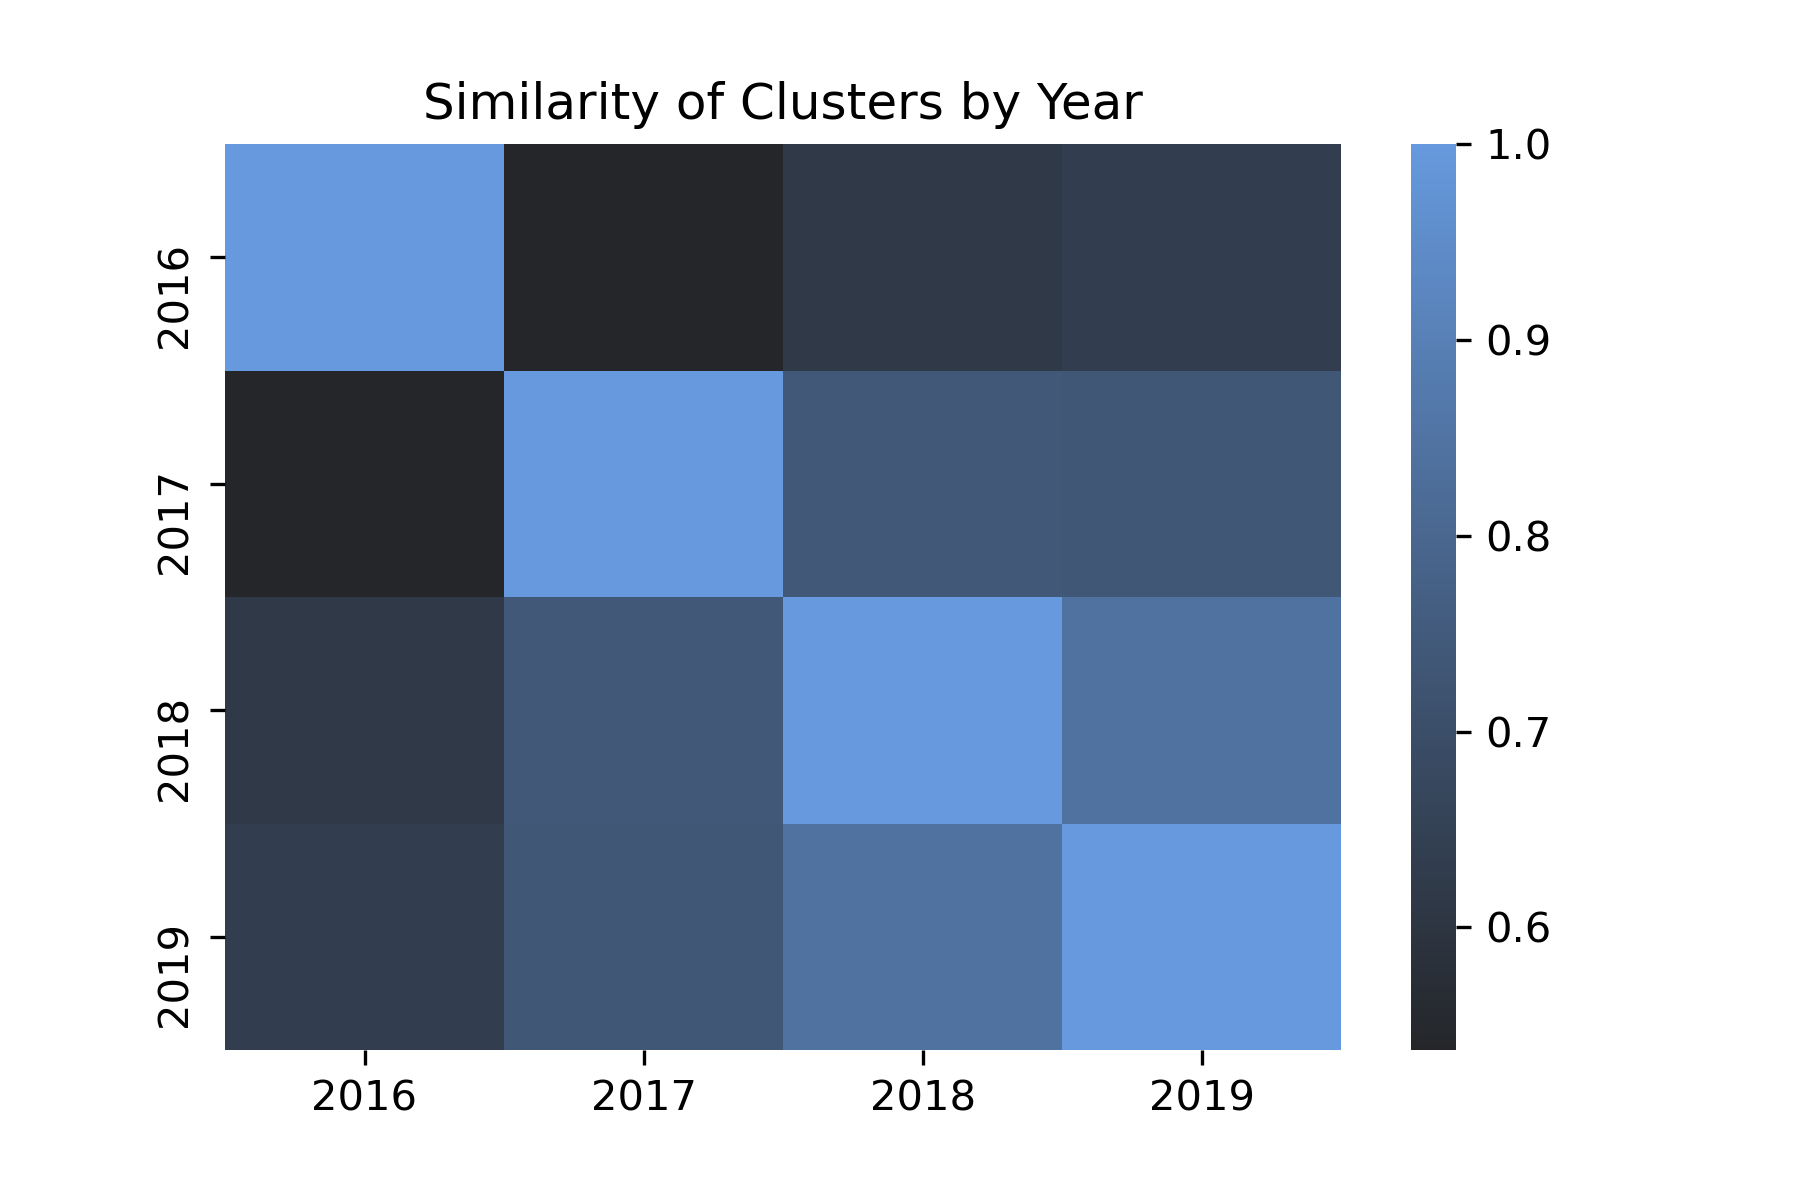
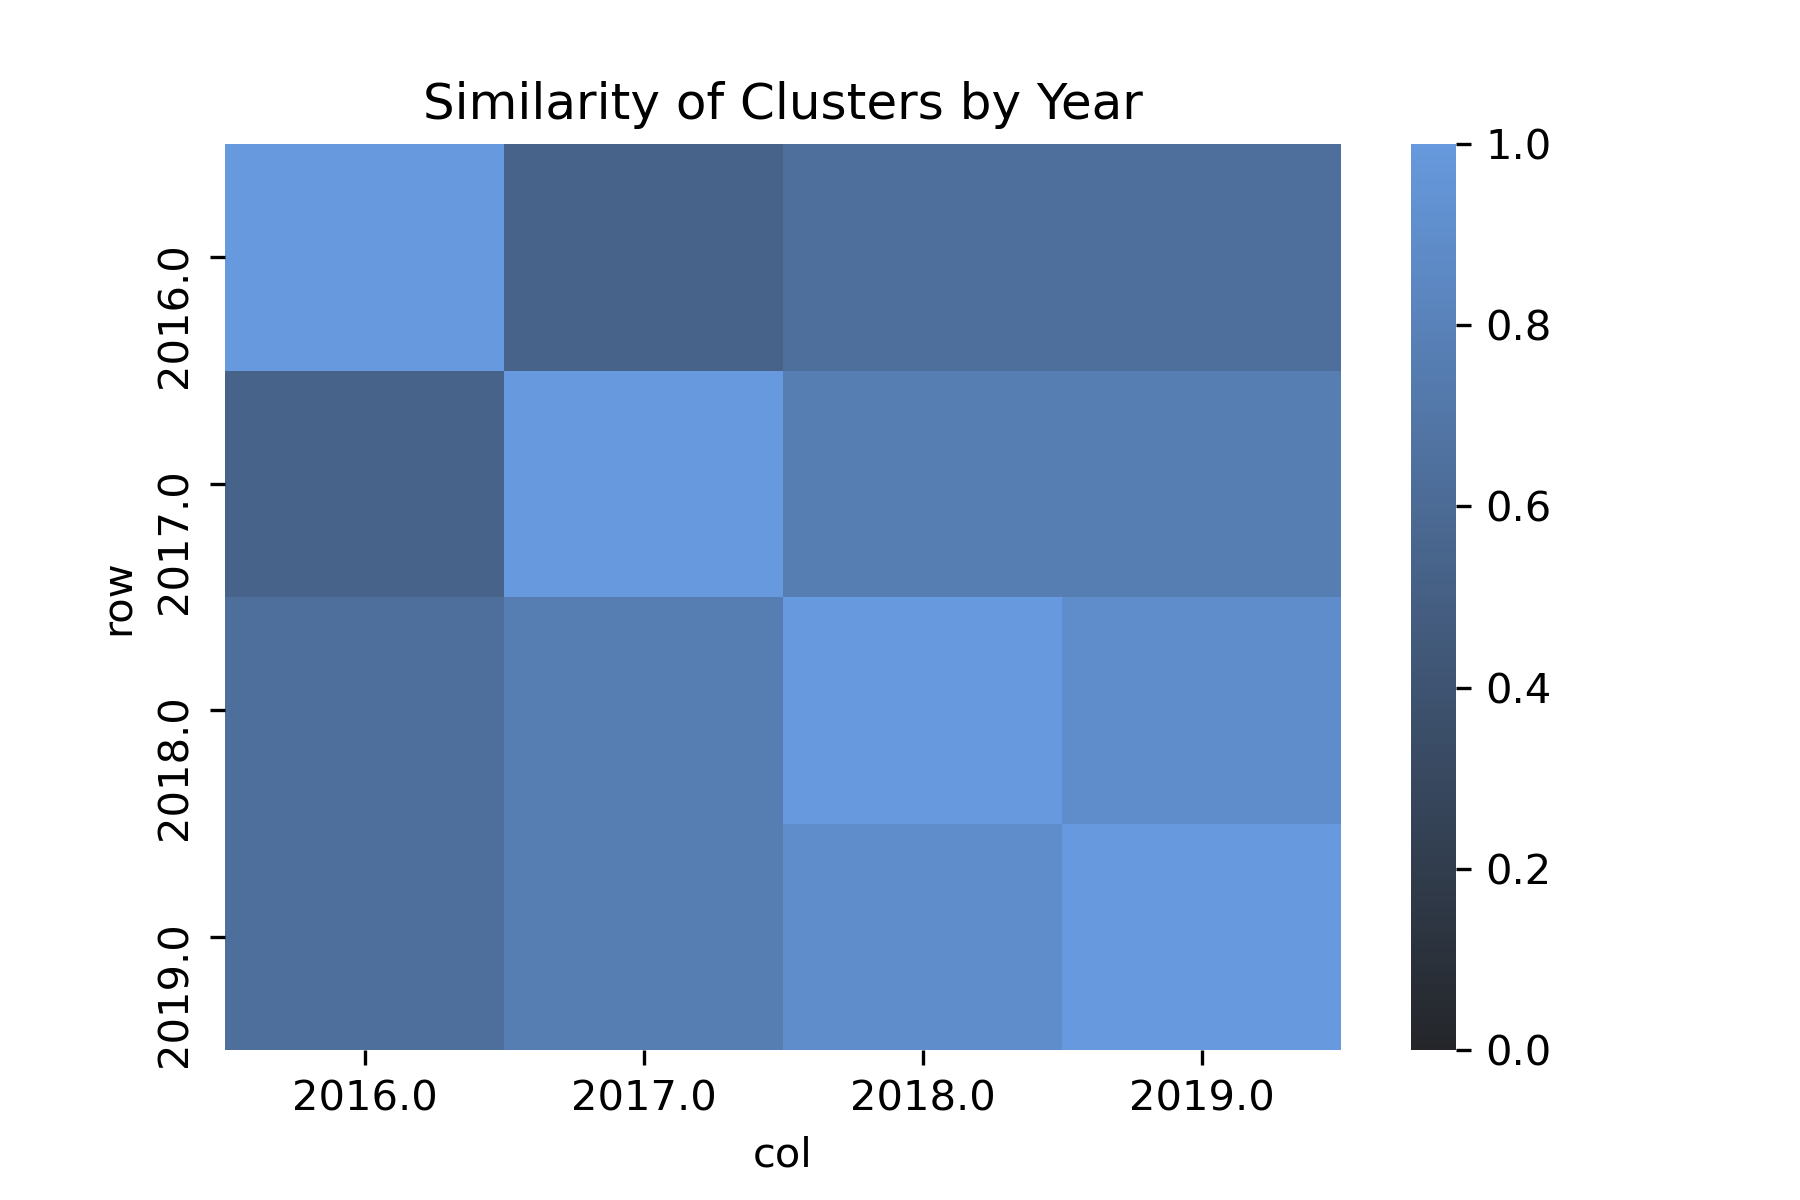
fix similarity matrix code

diff --git a/clustering/util_comparisons.py b/clustering/util_comparisons.py
@@ -2,21 +2,26 @@ import pandas as pd
 import numpy as np
 from util_clustering import get_clusters
 
-def create_training_data_race(data, remove_cols, race):
+def create_training_data_race(data, keep_cols, demog):
     '''
     Subset training data to include 9 features: ISR, UOF, Complaints for each of 3 races
     '''
     # Create training data
     training_data = data.copy()
+
+    # keep demographic columns
+    demo_cols = [c for c in training_data.columns if demog in c]
+    keep_cols_copy = keep_cols + demo_cols + ['BEAT']
     
     # filter columns
-    training_data = training_data[['BEAT', 'YEAR', 'ISR_BLACK', 'ISR_WHITE', 'ISR_HISPANIC',
-                                   'UOF_BLACK', 'UOF_WHITE', 'UOF_HISPANIC',
-                                 'COMPLAINTS_BLACK', 'COMPLAINTS_WHITE', 'COMPLAINTS_HISPANIC']]
-        
+    remove_cols = [c for c in training_data.columns if c not in keep_cols_copy]
+    training_data.drop(remove_cols, axis=1, inplace=True)
+    
     # Sum by year
-    training_data = training_data.drop('YEAR',axis=1).groupby(by='BEAT').agg(np.sum)
-    return training_data
+    training_data = training_data.groupby(by='BEAT').agg(np.sum).reset_index()
+    beats = training_data['BEAT']
+    training_data.drop('BEAT', axis=1, inplace=True)
+    return training_data, beats
 
 def create_training_data_year(data, remove_cols, year):
     '''
@@ -36,7 +41,7 @@ def create_training_data_year(data, remove_cols, year):
 
     # drop beat feature
     beats = training_data['BEAT']
-    training_data.drop('BEAT', axis=1)
+    training_data.drop('BEAT', axis=1, inplace=True)
     return training_data, beats
     
 def get_match_mat(labels):
@@ -82,28 +87,26 @@ def compute_cluster_sim_score(labels1, labels2):
     mat2 = get_match_mat(labels2)
     return get_cosine_match(mat1, mat2, n)
 
-def compute_similarity_matrix(data, comp_values, remove_cols, model):
+def compute_similarity_matrix(data, comp_values, filter_cols, training_func, model):
     """
         Runs clustering over subsets of data and measures similarity.
     Params:
         data - data frame of features
         comp_values - distinct values for subsetting
-        remove_cols - columns to remove
+        filter_cols - columns to filter on (remove for yearly, keep for race)
+        training_func - function to create training data
         model - clustering model
     Returns:
         nxn matrix similarity scores as data frame
     """
-    result_df = pd.DataFrame()
+    long_df = pd.DataFrame()
     for value_1 in comp_values:
-        training_data_1, beats_1 = create_training_data_year(data, remove_cols, value_1)
+        training_data_1, beats_1 = training_func(data, filter_cols, value_1)
         _, clustered_data_1 = get_clusters(training_data_1, beats_1, model) # We are subsetting the labels later
         
-        # initialize way to store row data
-        row_dict = {}
-
         for value_2 in comp_values:
             # Get clusters
-            training_data_2, beats_2 = create_training_data_year(data, remove_cols, value_2)
+            training_data_2, beats_2 = training_func(data, filter_cols, value_2)
             _, clustered_data_2 = get_clusters(training_data_2, beats_2, model)
 
             # Exclude beats that Merge on beat and extract new cluster labels only for those that match
@@ -113,6 +116,7 @@ def compute_similarity_matrix(data, comp_values, remove_cols, model):
 
             # Compare
             sim_score = compute_cluster_sim_score(cluster_labels_1, cluster_labels_2)
-            row_dict[value_2] = sim_score
-        result_df = result_df.append(row_dict, ignore_index=True)
-    return result_df
+            
+            long_df = long_df.append({'row':value_1, 'col':value_2, 'sim':sim_score}, ignore_index=True)
+    wide_df = long_df.pivot(index='row',columns='col',values='sim')
+    return wide_df.sort_index(axis=0).sort_index(axis=1)

diff --git a/clustering/util_clustering.py b/clustering/util_clustering.py
@@ -48,6 +48,8 @@ def generate_pca_data(dataset, n_components=None):
     """
     if n_components is None:
         n_components = dataset.shape[1]
+    elif n_components > dataset.shape[1]:
+        n_components = dataset.shape[1]
     pca = PCA(n_components=n_components)
     pc_dataset = pd.DataFrame(pca.fit_transform(dataset))
     pc_dataset.columns = ['PC'+str(i+1) for i in range(n_components)]
